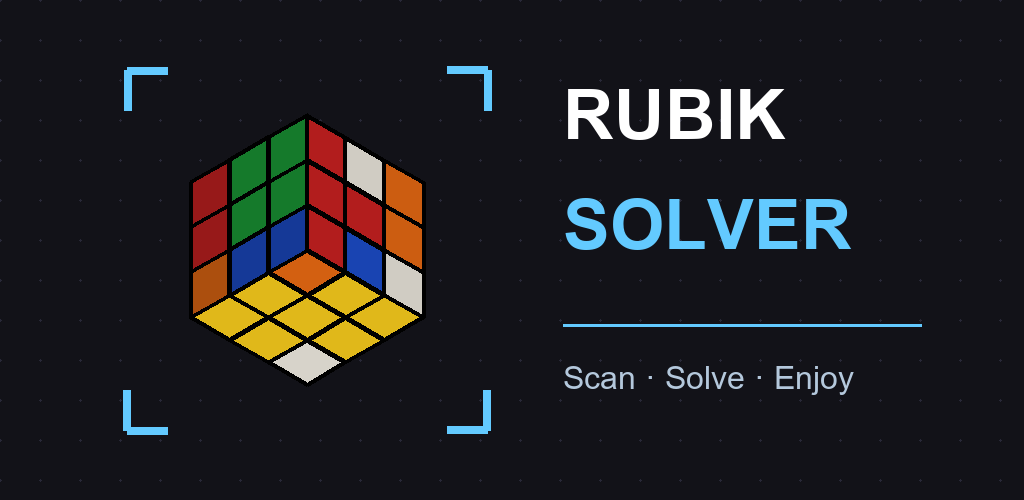
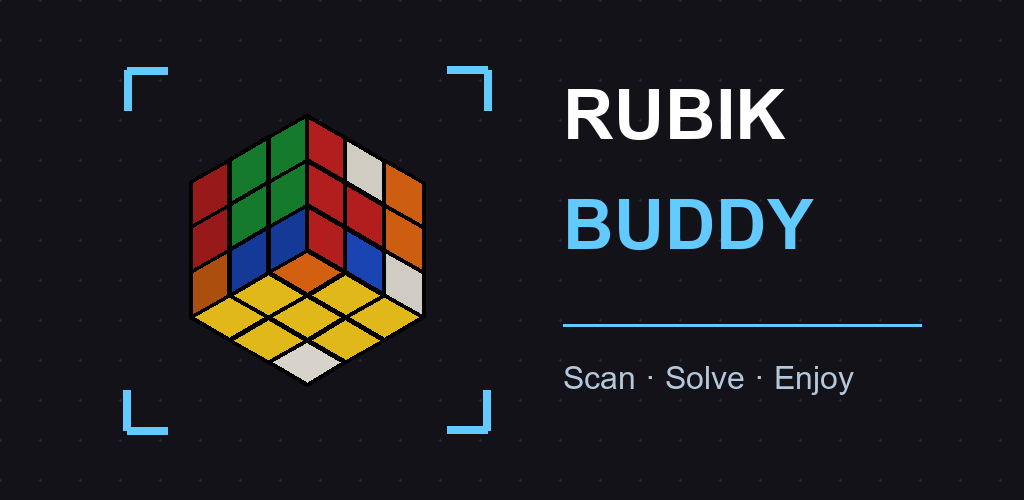
docs: add Play release process, listing copy and store assets for Rubik Buddy
Regenerate the store icon and feature graphic with the Rubik Buddy name.

Changed region(s): [[0.5312, 0.39, 0.8438, 0.51]]

diff --git a/assets/gen_assets.py b/assets/gen_assets.py
@@ -1,5 +1,5 @@
 """
-Generate Play Store visual assets for RubikSolver:
+Generate Play Store visual assets for Rubik Buddy:
   - store/icon_512.png          (Play Store icon, 512×512)
   - store/feature_graphic.png   (Feature graphic, 1024×500)
   - store/ic_launcher_fg.png    (Adaptive icon foreground, 108dp @ xxxhdpi = 432px)
@@ -160,13 +160,13 @@ def make_icon(size=512):
     draw_cube_isometric(draw, vf_cx, vf_cy,
                         cube_size, make_top_face(), make_left_face(), make_right_face())
 
-    # Small "RUBIK SOLVER" label below viewfinder
+    # Small "RUBIK BUDDY" label below viewfinder
     label_y = vf_cy + vf_size//2 + int(size*0.03)
     try:
         font = ImageFont.truetype("arial.ttf", int(size*0.055))
     except Exception:
         font = ImageFont.load_default()
-    text = "RUBIK SOLVER"
+    text = "RUBIK BUDDY"
     bbox = draw.textbbox((0,0), text, font=font)
     tw = bbox[2] - bbox[0]
     draw.text((size//2 - tw//2, label_y), text, font=font, fill=ACCENT)
@@ -253,7 +253,7 @@ def make_feature(w=1024, h=500):
         font_tag  = font_big
 
     draw.text((tx, int(h*0.15)), "RUBIK",  font=font_big, fill=WHITE)
-    draw.text((tx, int(h*0.37)), "SOLVER", font=font_big, fill=ACCENT)
+    draw.text((tx, int(h*0.37)), "BUDDY", font=font_big, fill=ACCENT)
 
     tag = "Scan · Solve · Enjoy"
     draw.text((tx, int(h*0.72)), tag, font=font_sub, fill=(180, 200, 220))

diff --git a/docs/play-listing.md b/docs/play-listing.md
@@ -1,0 +1,131 @@
+# Google Play listing: Rubik Buddy
+
+Copy and answers to paste into Play Console. Keep them consistent with
+`docs/play-data-safety.md` and `docs/privacy-policy.md`.
+
+## Basics
+
+| Field | Value |
+| --- | --- |
+| App name (title, max 30) | Rubik Buddy |
+| Application id | `org.freevia.rubikbuddy` |
+| App or game | App |
+| Category | Tools (alternative: Puzzle under Games, which makes it a game listing) |
+| Free or paid | Free |
+| Contact email | info@freevia.org |
+| Website | https://freevia.org/rubik-buddy/ |
+| Privacy policy URL | https://freevia.org/rubik-buddy/privacy |
+| Contains ads | No |
+
+## Short description (max 80 characters)
+
+```
+Scan your 3x3 Rubik's Cube with the camera and get step-by-step solving moves.
+```
+
+(77 characters.)
+
+## Full description (max 4000 characters)
+
+```
+Rubik Buddy helps you solve a standard 3x3 Rubik's Cube. Point your phone camera at each
+face of the cube, check the colors it read, and follow a short sequence of moves shown on
+an animated 3D cube until the cube is solved.
+
+How it works
+- Scan: hold the cube as shown and scan the six faces one after another. The app guides
+  you through each rotation.
+- Check: if the camera misread a sticker (lighting can make orange, red, yellow and white
+  look alike), tap the tile and pick the correct color.
+- Solve: Rubik Buddy checks that the cube you entered is possible and computes a
+  solution with the Kociemba two-phase algorithm. Step through the moves one at a time,
+  replay them, or restart.
+
+Features
+- Camera-based scan of all six faces
+- Tap-to-correct for any tile the camera got wrong
+- Detects impossible scans (wrong color counts, twisted pieces) instead of giving a wrong answer
+- Step-by-step move instructions with an animated, draggable 3D cube
+- Works fully offline
+
+Privacy
+Rubik Buddy needs only the camera permission, and only to read the colors of your cube.
+Camera images are processed on your device while you scan and are never stored or sent
+anywhere. There is no account, no ads, no analytics and no tracking.
+
+Notes
+- Designed for the standard 3x3 cube with the usual six colors (white, yellow, red,
+  orange, blue, green).
+- Color detection depends on lighting. Good, even light gives the best results.
+- Rubik's Cube is a trademark of its owner. Rubik Buddy is an independent app and is not
+  affiliated with or endorsed by the trademark owner.
+
+Open source under the MIT License: https://github.com/freevia-org/rubik-buddy
+```
+
+The text above is roughly 1,700 characters, well under the limit.
+
+## Content rating (IARC questionnaire)
+
+Category: utility / reference. Answer **No** to all of: violence, sexual content,
+profanity, controlled substances, gambling, user-generated content, user-to-user
+interaction, location sharing, purchases, and unrestricted web access. The app has no
+network access. Expected outcome: suitable for everyone (PEGI 3 / ESRB Everyone); the
+actual rating is assigned by the questionnaire.
+
+## Data safety form
+
+Matches `docs/play-data-safety.md`:
+
+- Does your app collect or share any of the required user data types? **No.**
+- The camera is used only for on-device processing; frames are not stored or transmitted,
+  so nothing is "collected" under Play's definition (data processed only on device and not
+  sent off the device).
+- Encryption in transit / data deletion request: not applicable.
+- No third-party SDKs that collect data.
+- Privacy policy: https://freevia.org/rubik-buddy/privacy
+
+## Other declarations
+
+- Target audience: 13 and over is the simplest choice. Choosing under-13 groups brings
+  Families policy requirements; the app is not designed specifically for children.
+- Ads: No. News app: No. Government app: No. Financial features: none. Health: none.
+- App access: all functionality is available without login, no special instructions.
+- Permissions: `CAMERA` (core feature). The camera `uses-feature` is required, so the app
+  is only offered on devices with a camera.
+
+## Graphic assets
+
+| Asset | Requirement | File | Status |
+| --- | --- | --- | --- |
+| App icon | 512x512 PNG, up to 1 MB | `assets/store/icon_512.png` | Regenerated, reads "RUBIK BUDDY" |
+| Feature graphic | 1024x500 PNG or JPEG | `assets/store/feature_graphic.png` | Regenerated, reads "RUBIK BUDDY" |
+| Phone screenshots | at least 2, up to 8; 16:9 or 9:16, each side 320-3840 px | `assets/play/screenshots/` | See below |
+
+Both graphics come from `assets/gen_assets.py` (Pillow); regenerate with
+`python assets/gen_assets.py`. The icon has rounded corners with a transparent margin;
+Play applies its own mask and a full-bleed square is the more standard submission, so
+consider that if the review preview looks off.
+
+### Phone screenshots (required: minimum 2)
+
+Capture from a phone or emulator, showing no personal data:
+
+1. Home screen (title, subtitle, Scan Cube button).
+2. Scan screen mid-scan (viewfinder and tile grid).
+3. Tile correction or the scan result for a face.
+4. Solve screen with a move shown on the 3D cube.
+5. Solved screen.
+
+Status: only `assets/play/screenshots/01-home.png` (emulator, home screen) exists. The
+emulator's synthetic camera does not show a real cube, so the remaining screens must be
+captured on a physical phone with a real cube.
+
+Capture command: `adb exec-out screencap -p > assets/play/screenshots/01-home.png`.
+
+## Developer account notes (verify in Play Console, rules change)
+
+- New personal developer accounts created after 13 November 2023 have generally had to run
+  a closed test with at least 12 testers opted in for 14 continuous days before applying
+  for production access. Organization accounts are generally exempt. Confirm the current
+  requirement in Play Console (Dashboard, "Set up your app").

diff --git a/docs/RELEASE.md b/docs/RELEASE.md
@@ -1,0 +1,89 @@
+# Releasing Rubik Buddy to Google Play
+
+Application id: `org.freevia.rubikbuddy`. This follows the same process as the other Freevia
+apps (for example Sudoku Buddy): one shared Freevia upload key, signing material supplied
+through environment variables, and a `play-submission` folder kept outside the repository.
+No secret ever lives in this repository.
+
+## Versioning
+
+- `versionName` is set in `composeApp/build.gradle.kts`.
+- `versionCode` is the `VERSION_CODE` environment variable when set, otherwise the number of
+  commits reachable from `HEAD` (`git rev-list --count HEAD`). Each Play upload needs a
+  higher code than every earlier upload. Build from the exact commit you intend to ship and
+  record the resulting code in the submission folder's README.
+
+## Signing
+
+Play App Signing is used: Google holds the app signing key and the Freevia upload key signs
+the bundle. The upload key is the existing Freevia keystore, kept on the maintainer's
+machine under `C:\Users\anton\Documents\Freevia-secure\` (outside the repository), with
+credentials stored DPAPI-protected next to it and in the password manager. Its certificate
+SHA-256 is public information and is how an upload is checked against Play's registered
+upload certificate:
+
+```
+A5:10:D8:2B:87:E7:06:9B:53:D5:20:BE:CA:91:5B:35:2A:E9:6C:EA:85:0C:68:CA:00:61:17:E3:5D:75:D3:E5
+```
+
+The build reads these environment variables (or the Gradle properties in brackets, set in
+the user-level `~/.gradle/gradle.properties`, never in the project):
+
+| Variable | Gradle property |
+| --- | --- |
+| `SIGNING_KEYSTORE` (path to the `.jks`) | `signing.keystore` |
+| `SIGNING_KEYSTORE_PASSWORD` | `signing.keystorePassword` |
+| `SIGNING_KEY_ALIAS` | `signing.keyAlias` |
+| `SIGNING_KEY_PASSWORD` | `signing.keyPassword` |
+
+Without them `bundleRelease` still succeeds but produces an UNSIGNED bundle (this is what CI
+does), which Play rejects.
+
+## Build the signed bundle (Windows, PowerShell)
+
+Decrypt the credentials into the current process only (never print or save them):
+
+```powershell
+Add-Type -AssemblyName System.Security
+$dir = 'C:\Users\anton\Documents\Freevia-secure\SudokuBuddy\recovered'
+$c = [Text.Encoding]::UTF8.GetString([Security.Cryptography.ProtectedData]::Unprotect(
+       [IO.File]::ReadAllBytes("$dir\credentials.json.dpapi"), $null, 'CurrentUser')) | ConvertFrom-Json
+$env:SIGNING_KEYSTORE          = "$dir\sudoku-buddy-release.jks"
+$env:SIGNING_KEYSTORE_PASSWORD = $c.keystorePassword
+$env:SIGNING_KEY_ALIAS         = $c.keyAlias
+$env:SIGNING_KEY_PASSWORD      = $c.keyPassword
+.\gradlew.bat clean :composeApp:bundleRelease
+Remove-Item Env:SIGNING_*
+```
+
+Output: `composeApp\build\outputs\bundle\release\composeApp-release.aab`.
+
+Verify the signature and the certificate (compare only the SHA-256):
+
+```powershell
+jarsigner -verify -verbose -certs composeApp\build\outputs\bundle\release\composeApp-release.aab
+keytool -printcert -jarfile composeApp\build\outputs\bundle\release\composeApp-release.aab
+```
+
+## Pre-upload checklist
+
+- `.\gradlew.bat :rubik-model:jvmTest :rubik-vision:testAndroidHostTest :rubik-solver:testAndroidHostTest` passes.
+- `.\gradlew.bat lint` shows no errors.
+- The merged manifest requests only `CAMERA` (matches `docs/play-data-safety.md`).
+- The bundle's application id is `org.freevia.rubikbuddy` and the label is "Rubik Buddy".
+- `versionCode` is higher than the last uploaded build.
+- Listing text and graphics: `docs/play-listing.md`, `assets/store/`, `assets/play/screenshots/`.
+
+## Submission folder
+
+Copy the signed bundle and listing material to
+`Freevia\release-artifacts\rubik-buddy\play-submission\` (same layout as Sudoku Buddy):
+`app-release.aab`, `app-icon-512.png`, `feature-graphic-1024x500.png`, `screenshots/`,
+`play-console-submission.md` (from `docs/play-listing.md`), `privacy-policy.md`,
+`release-notes-en-US.txt`, `README.md` with version code and SHA-256 checksums.
+
+## Upload
+
+In Play Console create the app (package `org.freevia.rubikbuddy`), enrol in Play App
+Signing with the upload key above, complete the declarations from `docs/play-listing.md`,
+and upload the `.aab` to Internal testing first, then promote the tested bundle.
